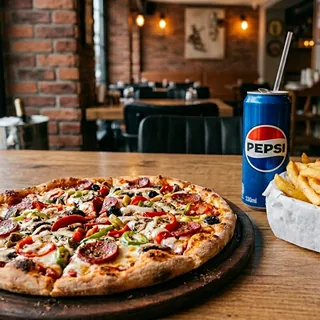
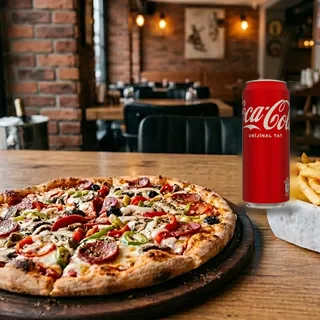
Owner's 14-item update: menus, copy, drinks layout, footer
- Slogan larger and bold; section headings (Menüler, pizza groups,
  Ekstralar, İçecekler) in the logo's orange.
- Mini Menü 599 TL, photo now shows a Coca-Cola can instead of Pepsi.
- Pizzadan Maraşa, Keyif Paketi and Double Keyif Paketi use the photos
  the business uploaded to Trendyol; Donatello Menü shows the Donatello
  pizza with a 1 L Coca-Cola.
- Favori Menü and Pizzadan Maraşa contents reworded; "Maraş Cup".
- Pizza contents start with pizza sauce, then mozzarella.
- İçecekler: Ayran & Su and 2,5 L stacked in the right column on wide
  screens.
- "SİZLERİ BEKLİYORUZ", new address, footer service areas listed one
  per line under "Servis hizmeti verdiğimiz bölgeler", house line on
  the right.

Changed region(s): [[0.7188, 0.0938, 0.9375, 0.6875]]

diff --git a/app/page.tsx b/app/page.tsx
@@ -17,7 +17,7 @@ const formatPrice=(v?:number)=>v?`${v} ₺`:"—";
 export default function Home(){
 const [cat,setCat]=useState("TÜMÜ");
 const goToMenu=(event:MouseEvent<HTMLAnchorElement>)=>{event.preventDefault();const skip=document.querySelector<HTMLButtonElement>(".cinematic-skip");if(skip){skip.click();return}const menu=document.getElementById("menu");history.replaceState(null,"","#menu");menu?.scrollIntoView({behavior:"smooth",block:"start"});menu?.focus({preventScroll:true})};
-return <CartProvider><header><a className="logo" href="#"><img src="/brand/logo.webp" alt="Donatello Pizza" width={398} height={420} fetchPriority="high"/></a></header><CinematicSequence/><main><section id="menu" className="menu showcase" tabIndex={-1}><span className="eyebrow">GERÇEK PİZZA, GERÇEK LEZZET.</span><h2>LEZZET DOLU<br/><em>SEÇENEKLER.</em></h2><ProductShowcase/><Tabs value={cat} onValueChange={setCat}><TabsList className="cats" variant="line">{cats.map(c=><TabsTrigger key={c} value={c}>{c}</TabsTrigger>)}</TabsList><p className="menu-note">Görseller temsilidir.</p>{cats.map(c=><TabsContent key={c} value={c}>{c===MENUS?<Campaigns/>:<>{pizzaGroups.filter(g=>c==="TÜMÜ"||g.id===c).map(g=><div key={g.id} className="pizza-group"><div className="group-head"><h3>{g.title}</h3><span aria-hidden="true">{sizeLabels.map(([,l])=><i key={l}>{l}</i>)}</span></div><ul>{products.filter(p=>p.group===g.id).map(p=><li key={p.id} className="row"><img src={pizzaThumb(p)} alt="" width={90} height={90} loading="lazy" decoding="async"/><span><strong>{p.name}</strong><small>{toppingsText(p)}</small></span><div className="prices">{sizeLabels.map(([k,l])=><AddButton key={k} className="size-add" label={`${p.name} ${l} sepete ekle`} line={{key:`${p.id}:${k}`,name:p.name,variant:l,price:p.prices?.[k]}}><span className="size-label" aria-hidden="true">{l[0]}</span><span className="size-price">{formatPrice(p.prices?.[k])}</span></AddButton>)}</div></li>)}</ul></div>)}{(c==="TÜMÜ"||sideTabs.includes(c))&&<SideMenu only={c==="TÜMÜ"?undefined:c}/>}</>}</TabsContent>)}</Tabs></section><Reviews/><section id="iletisim" className="business" aria-label="İletişim" tabIndex={-1}><div><span>PİZZANIN EN LEZZETLİ HALİ,</span><h2>SİZİ<br/><em>BEKLİYORUZ.</em></h2></div><div className="details">{[["ADRES",business.address],["ÇALIŞMA SAATLERİ",business.hours]].map(([l,v])=><div key={l}><b>{l}</b><p>{v||"Bilgiler yakında paylaşılacak."}</p></div>)}<div><b>TELEFON</b><p className="phones">{[business.phone,business.phone2].filter(Boolean).map(n=><a key={n} href={`tel:+9${n!.replace(/\D/g,"")}`}>{n}</a>)}</p></div><div><b>INSTAGRAM</b><p>{business.instagram?<a href={`https://www.instagram.com/${business.instagram}/`} target="_blank" rel="noopener noreferrer">@{business.instagram}{" "}↗</a>:"Bilgiler yakında paylaşılacak."}</p></div></div></section></main><footer><nav><a href="#menu" onClick={goToMenu}>MENÜ</a><a href="#menu" onClick={e=>{setCat(MENUS);goToMenu(e)}}>MENÜLER</a><a href="#iletisim">İLETİŞİM</a></nav><div className="footer-brand"><img src="/brand/logo.webp" alt="Donatello Pizza" width={398} height={420} loading="lazy" decoding="async"/><div><b>HİZMET BÖLGEMİZ</b><ul>{business.serviceAreas.map(a=><li key={a}>{a}</li>)}</ul></div></div><small>© 2026 DONATELLO PIZZA</small></footer><CartSheet/></CartProvider>;
+return <CartProvider><header><a className="logo" href="#"><img src="/brand/logo.webp" alt="Donatello Pizza" width={398} height={420} fetchPriority="high"/></a></header><CinematicSequence/><main><section id="menu" className="menu showcase" tabIndex={-1}><span className="eyebrow">GERÇEK PİZZA, GERÇEK LEZZET.</span><h2>LEZZET DOLU<br/><em>SEÇENEKLER.</em></h2><ProductShowcase/><Tabs value={cat} onValueChange={setCat}><TabsList className="cats" variant="line">{cats.map(c=><TabsTrigger key={c} value={c}>{c}</TabsTrigger>)}</TabsList><p className="menu-note">Görseller temsilidir.</p>{cats.map(c=><TabsContent key={c} value={c}>{c===MENUS?<Campaigns/>:<>{pizzaGroups.filter(g=>c==="TÜMÜ"||g.id===c).map(g=><div key={g.id} className="pizza-group"><div className="group-head"><h3>{g.title}</h3><span aria-hidden="true">{sizeLabels.map(([,l])=><i key={l}>{l}</i>)}</span></div><ul>{products.filter(p=>p.group===g.id).map(p=><li key={p.id} className="row"><img src={pizzaThumb(p)} alt="" width={90} height={90} loading="lazy" decoding="async"/><span><strong>{p.name}</strong><small>{toppingsText(p)}</small></span><div className="prices">{sizeLabels.map(([k,l])=><AddButton key={k} className="size-add" label={`${p.name} ${l} sepete ekle`} line={{key:`${p.id}:${k}`,name:p.name,variant:l,price:p.prices?.[k]}}><span className="size-label" aria-hidden="true">{l[0]}</span><span className="size-price">{formatPrice(p.prices?.[k])}</span></AddButton>)}</div></li>)}</ul></div>)}{(c==="TÜMÜ"||sideTabs.includes(c))&&<SideMenu only={c==="TÜMÜ"?undefined:c}/>}</>}</TabsContent>)}</Tabs></section><Reviews/><section id="iletisim" className="business" aria-label="İletişim" tabIndex={-1}><div><span>PİZZANIN EN LEZZETLİ HALİ,</span><h2>SİZLERİ<br/><em>BEKLİYORUZ.</em></h2></div><div className="details">{[["ADRES",business.address],["ÇALIŞMA SAATLERİ",business.hours]].map(([l,v])=><div key={l}><b>{l}</b><p>{v||"Bilgiler yakında paylaşılacak."}</p></div>)}<div><b>TELEFON</b><p className="phones">{[business.phone,business.phone2].filter(Boolean).map(n=><a key={n} href={`tel:+9${n!.replace(/\D/g,"")}`}>{n}</a>)}</p></div><div><b>INSTAGRAM</b><p>{business.instagram?<a href={`https://www.instagram.com/${business.instagram}/`} target="_blank" rel="noopener noreferrer">@{business.instagram}{" "}↗</a>:"Bilgiler yakında paylaşılacak."}</p></div></div></section></main><footer><nav><a href="#menu" onClick={goToMenu}>MENÜ</a><a href="#menu" onClick={e=>{setCat(MENUS);goToMenu(e)}}>MENÜLER</a><a href="#iletisim">İLETİŞİM</a></nav><div className="footer-brand"><img src="/brand/logo.webp" alt="Donatello Pizza" width={398} height={420} loading="lazy" decoding="async"/><div><b>SERVİS HİZMETİ VERDİĞİMİZ BÖLGELER</b><ul>{business.serviceAreas.map(a=><li key={a}>{a}</li>)}</ul></div><p className="footer-quote">Pizzayı herkes sever, ama <em>DONATELLO&apos;yu</em> tadanlar aşık olur.</p></div><small>© 2026 DONATELLO PIZZA</small></footer><CartSheet/></CartProvider>;
 }
 
 function ProductShowcase(){const [active,setActive]=useState(0);const go=(d:number)=>setActive((active+d+products.length)%products.length);const p=products[active],prev=products[(active-1+products.length)%products.length],next=products[(active+1)%products.length];return <div className="product-stage" onTouchStart={e=>{const x=e.touches[0].clientX; (e.currentTarget as HTMLElement).dataset.x=String(x)}} onTouchEnd={e=>{const x=Number((e.currentTarget as HTMLElement).dataset.x||e.changedTouches[0].clientX);const dx=e.changedTouches[0].clientX-x;if(Math.abs(dx)>30)go(dx<0?1:-1)}}><button className="stage-arrow prev" onClick={()=>go(-1)} aria-label="Önceki pizza">←</button><div className="peek left"><img src={pizzaImage(prev)} alt="" width={180} height={180}/><small>{prev.name}</small></div><div className="active-product"><img data-menu-pizza src={pizzaImage(p)} alt={`${p.name} pizza`} width={310} height={310}/><small>{String(active+1).padStart(2,"0")} / {String(products.length).padStart(2,"0")}</small><h3>{p.name}</h3></div><div className="peek right"><img src={pizzaImage(next)} alt="" width={180} height={180}/><small>{next.name}</small></div><button className="stage-arrow next" onClick={()=>go(1)} aria-label="Sonraki pizza">→</button></div>}
@@ -30,4 +30,4 @@ function CampaignCard({c}:{c:Campaign}){return <li className="campaign"><img src
 function Campaigns(){return <div className="campaigns"><section aria-labelledby="kampanya-menuler"><div className="campaign-head"><h3 id="kampanya-menuler">Menüler</h3><span>Menülerdeki içecek tercihinizi sipariş notuna yazabilirsiniz</span></div><ul>{campaigns.map(c=><CampaignCard key={c.id} c={c}/>)}</ul></section></div>}
 
 // Ekstralar / İçecekler: shown under TÜMÜ and in their own tabs.
-function SideMenu({only}:{only?:string}){return <div className="sides">{sideSections.filter(sec=>!only||sideTab(sec)===only).map(sec=><section key={sec} className="side-section" aria-labelledby={`yan-${sec}`}><h3 id={`yan-${sec}`}>{sec}</h3><div className="side-groups">{sides.filter(g=>g.section===sec).map(g=><div key={g.title}><h4>{g.title}</h4><ul>{g.items.map(i=><li key={i.name}>{g.art&&<DrinkArt name={i.name} size={g.size}/>}<span>{i.name}</span><span>{formatPrice(i.price)}</span><AddButton className="side-add" label={`${i.name}${g.size?` ${g.size}`:""} sepete ekle`} line={{key:`side:${i.name}${g.size?` ${g.size}`:""}`,name:`${i.name}${g.size?` ${g.size}`:""}`,price:i.price}}>{null}</AddButton></li>)}</ul></div>)}</div></section>)}</div>}
+function SideMenu({only}:{only?:string}){return <div className="sides">{sideSections.filter(sec=>!only||sideTab(sec)===only).map(sec=><section key={sec} className={`side-section side-${sideTab(sec)==="İÇECEKLER"?"drinks":"extras"}`} aria-labelledby={`yan-${sec}`}><h3 id={`yan-${sec}`}>{sec}</h3><div className="side-groups">{sides.filter(g=>g.section===sec).map(g=><div key={g.title}><h4>{g.title}</h4><ul>{g.items.map(i=><li key={i.name}>{g.art&&<DrinkArt name={i.name} size={g.size}/>}<span>{i.name}</span><span>{formatPrice(i.price)}</span><AddButton className="side-add" label={`${i.name}${g.size?` ${g.size}`:""} sepete ekle`} line={{key:`side:${i.name}${g.size?` ${g.size}`:""}`,name:`${i.name}${g.size?` ${g.size}`:""}`,price:i.price}}>{null}</AddButton></li>)}</ul></div>)}</div></section>)}</div>}

diff --git a/app/site-data.ts b/app/site-data.ts
@@ -1,7 +1,7 @@
 // Public address of the site; change here when a custom domain is connected (canonical, sitemap, robots, llms.txt).
 export const siteUrl = "https://donatello-pizza-film.vercel.app";
 
-export const business = {address:"Halaskargazi Cd. 50/A, İstanbul",hours:"10.30 – 02.00" as string|null,phone:"0530 236 38 86" as string|null,phone2:"0212 383 38 86",instagram:"donatellopizzaselimpasa" as string|null,whatsapp:"905302363886",serviceAreas:["Selimpaşa","Ortaköy","Kavaklı","Celaliye","Kamiloba"]};
+export const business = {address:"Selimpaşa Mah. Halaskargazi Cad. No:50/A",hours:"10.30 – 02.00" as string|null,phone:"0530 236 38 86" as string|null,phone2:"0212 383 38 86",instagram:"donatellopizzaselimpasa" as string|null,whatsapp:"905302363886",serviceAreas:["Selimpaşa","Ortaköy","Kavaklı","Celaliye","Kamiloba"]};
 
 // Prices in TL from the printed menu; s/m/l for pizzas, price for side items.
 export type Sizes = {s?:number;m?:number;l?:number};
@@ -42,8 +42,8 @@ export const products:Pizza[] = [
 export const pizzaImage = (p:Pizza) => `/assets/menu/pizzas/${p.id}.webp`;
 export const pizzaThumb = (p:Pizza) => `/assets/menu/pizzas/${p.id}-thumb.webp`;
 
-// Every pizza starts with mozzarella and pizza sauce; list rows show them first.
-export const toppingsText = (p:Pizza) => ["Mozzarella peyniri","Pizza sosu",...p.toppings].join(" / ");
+// Every pizza starts with pizza sauce and mozzarella; list rows show them first.
+export const toppingsText = (p:Pizza) => ["Pizza sosu","Mozzarella peyniri",...p.toppings].join(" / ");
 
 // Side menu, shown under two headings (section). size: the bottle size shared by a drinks group; it is appended to
 // the item name in the cart and the order message. art: show the product cut-out next to each item.
@@ -54,10 +54,10 @@ export const sides:{section:(typeof sideSections)[number];art?:boolean;title:str
   {section:"Ekstralar",title:"Patatesler",items:[{name:"Parmak Patates Büyük",price:220},{name:"Parmak Patates Orta",price:150},{name:"Elma Dilim Patates",price:170}]},
   {section:"Ekstralar",title:"Soslar",items:[{name:"Ketçap",price:10},{name:"Mayonez",price:10},{name:"Ranch Sos",price:25},{name:"Acı Sos",price:25},{name:"Barbekü Sos",price:25},{name:"Sarımsaklı Sos",price:25}]},
   {section:"Ekstralar",title:"Tatlılar",items:[{name:"Sufle",price:250},{name:"Profiterol",price:300},{name:"Soğuk Baklava 250 gr (4 dilim)",price:250},{name:"Soğuk Baklava 500 gr (8 dilim)",price:450},{name:"Soğuk Baklava 1000 gr (16 dilim)",price:800}]},
-  {section:"Ekstralar",art:true,title:"Dondurmalar",items:[{name:"Kesme Dilim Dondurma",price:80},{name:"Maraş Kap Dondurma",price:80},{name:"Carte d'Or Çikolata Rüyası",price:90},{name:"Carte d'Or Meyve Rüyası",price:90}]},
-  {section:"İçecekler",art:true,title:"Ayran & Su",items:[{name:"Ayran 300 ml",price:50},{name:"Ayran 1 lt",price:100},{name:"Su 500 ml",price:20}]},
+  {section:"Ekstralar",art:true,title:"Dondurmalar",items:[{name:"Kesme Dilim Dondurma",price:80},{name:"Maraş Cup Dondurma",price:80},{name:"Carte d'Or Çikolata Rüyası",price:90},{name:"Carte d'Or Meyve Rüyası",price:90}]},
   {section:"İçecekler",art:true,title:"Kutu İçecekler 330 ml",size:"330 ml",items:[{name:"Coca-Cola",price:90},{name:"Coca-Cola Zero",price:90},{name:"Fanta",price:90},{name:"Sprite",price:90},{name:"Fuse Tea Şeftali",price:90},{name:"Fuse Tea Limon",price:90},{name:"Fuse Tea Mango",price:90}]},
   {section:"İçecekler",art:true,title:"İçecekler 1 Litre",size:"1 lt",items:[{name:"Coca-Cola",price:110},{name:"Coca-Cola Zero",price:110},{name:"Fanta",price:110},{name:"Sprite",price:110},{name:"Fuse Tea Şeftali",price:110},{name:"Fuse Tea Limon",price:110},{name:"Fuse Tea Mango",price:110}]},
+  {section:"İçecekler",art:true,title:"Ayran & Su",items:[{name:"Ayran 300 ml",price:50},{name:"Ayran 1 lt",price:100},{name:"Su 500 ml",price:20}]},
   {section:"İçecekler",art:true,title:"İçecekler 2,5 Litre",size:"2,5 lt",items:[{name:"Coca-Cola",price:180},{name:"Fanta",price:180}]},
 ];
 
@@ -91,15 +91,15 @@ export const googleReviews = {
 export type Campaign = { id: string; name: string; contents: string; price: number; image: string };
 const menuImg = (f: string) => `/assets/menus/${f}.webp`;
 export const campaigns: Campaign[] = [
-  { id: "favori-menu", name: "Favori Menü", contents: "1 orta boy pizza + 330 ml içecek", price: 499, image: menuImg("favori-menu") },
-  { id: "mini-menu", name: "Mini Menü", contents: "1 küçük boy karışık pizza + 1 orta boy parmak patates + 1 kutu içecek", price: 499, image: menuImg("mini-menu") },
-  { id: "pizzadan-marasa", name: "Pizzadan Maraşa", contents: "1 orta boy karışık pizza + 1 Maraş dondurma", price: 450, image: "/assets/menu/pizzas/karisik.webp" },
-  { id: "keyif-paketi", name: "Keyif Paketi", contents: "1 orta boy karışık pizza + 1 Carte d'Or + 1 kutu içecek", price: 550, image: "/assets/menu/pizzas/karisik.webp" },
-  { id: "donatello-menu", name: "Donatello Menü", contents: "Donatello pizza büyük boy + 1 L içecek", price: 699, image: "/assets/menu/pizzas/donatello.webp" },
+  { id: "favori-menu", name: "Favori Menü", contents: "1 orta boy karışık pizza + 1 kutu içecek", price: 499, image: menuImg("favori-menu") },
+  { id: "mini-menu", name: "Mini Menü", contents: "1 küçük boy karışık pizza + 1 orta boy parmak patates + 1 kutu içecek", price: 599, image: menuImg("mini-menu") },
+  { id: "pizzadan-marasa", name: "Pizzadan Maraşa", contents: "1 orta boy karışık pizza + 1 Maraş cup dondurma", price: 450, image: menuImg("pizzadan-marasa") },
+  { id: "keyif-paketi", name: "Keyif Paketi", contents: "1 orta boy karışık pizza + 1 Carte d'Or + 1 kutu içecek", price: 550, image: menuImg("keyif-paketi") },
+  { id: "donatello-menu", name: "Donatello Menü", contents: "Donatello pizza büyük boy + 1 L içecek", price: 699, image: menuImg("donatello-menu") },
   { id: "firsat-uclusu", name: "Fırsat Üçlüsü", contents: "2 orta boy karışık pizza + 1 L içecek", price: 899, image: menuImg("firsat-uclusu") },
   { id: "aile-menu", name: "Aile Menü", contents: "2 orta boy karışık pizza + 4 adet nugget + parmak patates orta boy + 1 L içecek", price: 999, image: menuImg("aile-menu") },
   { id: "buyuk-keyif-menu", name: "Büyük Keyif Menü", contents: "2 büyük boy karışık pizza + 1 L içecek", price: 1099, image: menuImg("buyuk-keyif-menu") },
-  { id: "double-keyif-paketi", name: "Double Keyif Paketi", contents: "2 orta boy karışık pizza + 2 Carte d'Or + 1 L içecek", price: 999, image: menuImg("firsat-uclusu") },
+  { id: "double-keyif-paketi", name: "Double Keyif Paketi", contents: "2 orta boy karışık pizza + 2 Carte d'Or + 1 L içecek", price: 999, image: menuImg("double-keyif-paketi") },
   { id: "kanka-menu", name: "Kanka Menü", contents: "3 orta boy karışık pizza + 1 L içecek", price: 1199, image: menuImg("kanka-menu") },
   { id: "super-ikili-menu", name: "Süper İkili Menü", contents: "2 orta boy karışık pizza + 2 adet sufle + 1 L içecek", price: 1299, image: menuImg("super-ikili-menu") },
   { id: "parti-menu", name: "Parti Menü", contents: "3 büyük boy karışık pizza + parmak patates büyük boy + 6 adet nugget + 2,5 L içecek", price: 1799, image: menuImg("parti-menu") },

diff --git a/app/globals.css b/app/globals.css
@@ -185,17 +185,30 @@ body:has(.cart-fab) footer{padding-bottom:100px}
 footer nav{flex-wrap:wrap;row-gap:0}
 footer nav a{display:inline-block;padding:14px 0}
 
-/* Footer: business logo with the delivery area beside it; the text block never grows taller than the logo */
-.footer-brand{--brand-h:clamp(110px,11vw,160px);display:flex;align-items:center;gap:clamp(18px,3vw,40px);margin:48px 0 28px}
+/* Footer: logo, the service areas stacked beside it (never taller than the logo), the house line on the right */
+.footer-brand{--brand-h:clamp(130px,11vw,160px);display:flex;flex-wrap:wrap;align-items:center;gap:20px clamp(18px,3vw,40px);margin:48px 0 28px}
 .footer-brand img{display:block;width:auto;height:var(--brand-h);flex:none}
 .footer-brand>div{min-width:0;max-height:var(--brand-h)}
-.footer-brand b{display:block;margin-bottom:8px;font:700 11px/1.2 var(--font-sans);letter-spacing:3px;color:var(--lime)}
-.footer-brand ul{list-style:none;margin:0;padding:0;display:flex;flex-wrap:wrap;gap:0 .35em;font:clamp(17px,2.2vw,30px)/1.25 var(--font-display);color:var(--cream)}
-.footer-brand li:not(:last-child)::after{content:","}
-@media(max-width:700px){.footer-brand{--brand-h:96px;gap:16px;margin:36px 0 22px}.footer-brand b{font-size:10px;letter-spacing:2px;margin-bottom:6px}.footer-brand ul{font-size:17px}}
+.footer-brand b{display:block;margin-bottom:8px;font:700 11px/1.25 var(--font-sans);letter-spacing:2.5px;color:var(--lime)}
+.footer-brand ul{list-style:none;margin:0;padding:0;font:clamp(16px,1.5vw,20px)/1.2 var(--font-display);color:var(--cream)}
+.footer-quote{margin:0 0 0 auto;max-width:520px;text-wrap:balance;text-align:right;font:italic clamp(20px,2vw,28px)/1.3 var(--font-italic);color:var(--cream)}
+.footer-quote em{font:normal 1em var(--font-display);color:var(--lime)}
+@media(max-width:900px){.footer-quote{flex-basis:100%;max-width:none;margin:8px 0 0;text-align:left}}
+@media(max-width:700px){.footer-brand{--brand-h:120px;gap:16px;margin:36px 0 22px}.footer-brand>div{max-width:calc(100% - 136px)}.footer-brand b{font-size:9px;letter-spacing:1.5px;margin-bottom:6px}.footer-brand ul{font-size:14px}.footer-quote{font-size:19px}}
 
 /* Ekstralar / İçecekler opened from their own tab: no divider above */
 .sides:first-child{margin-top:40px;padding-top:0;border-top:0}
 
 /* Eight menu tabs: wrap onto two rows on phones instead of hiding some behind a scroll */
 @media(max-width:700px){.cats{flex-wrap:wrap;overflow:visible!important;row-gap:0!important}.cats button{min-height:40px;padding:10px 0!important}}
+
+/* Slogan under the logo: larger and bold */
+.menu .eyebrow{font-size:20px;font-weight:800;letter-spacing:.5px}
+@media(max-width:700px){.menu .eyebrow{font-size:17px}}
+
+/* Section headings (Menüler, Cazip Pizzalar ... İçecekler) in the logo's orange so they stand out from the lime subheads */
+:root{--orange:#f29a3a}
+.group-head h3,.campaign-head h3,.side-section>h3{color:var(--orange)}
+
+/* İçecekler on wide screens: cans and 1 L in the first two columns, Ayran & Su and 2,5 L stacked on the right */
+@media(min-width:1100px){.side-drinks .side-groups{grid-template-columns:repeat(3,minmax(0,1fr))}.side-drinks .side-groups>:nth-child(-n+2){grid-row:span 2}}

diff --git a/app/drink-art.tsx b/app/drink-art.tsx
@@ -13,7 +13,7 @@ function drinkFile(name: string, size?: string) {
   if (/Ayran/.test(name)) return /1 lt/.test(name) ? "ayran-1l" : "ayran-300";
   if (/^Su\b/.test(name)) return "su-500";
   if (/Kesme Dilim/.test(name)) return "../desserts/kesme-dilim";
-  if (/Maraş Kap/.test(name)) return "../desserts/maras-kap";
+  if (/Maraş (Kap|Cup)/.test(name)) return "../desserts/maras-kap";
   if (/Çikolata Rüyası/.test(name)) return "../desserts/carte-dor-cikolata";
   if (/Meyve Rüyası/.test(name)) return "../desserts/carte-dor-meyve";
   const flavour = flavours.find(([re]) => re.test(name))?.[1];
